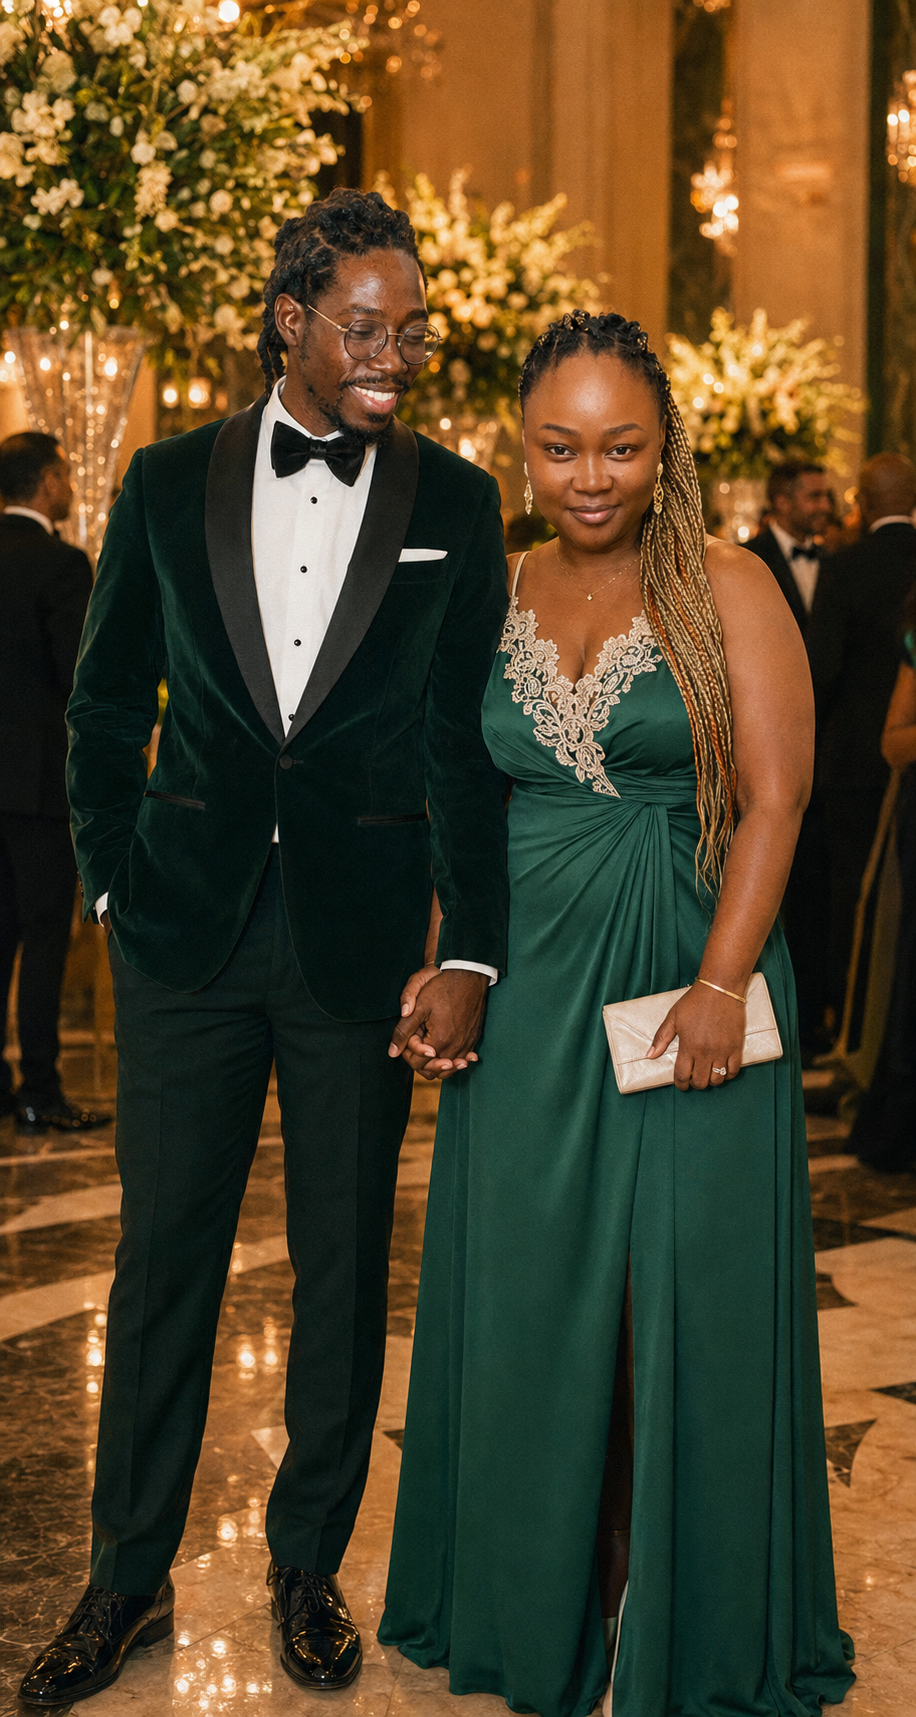
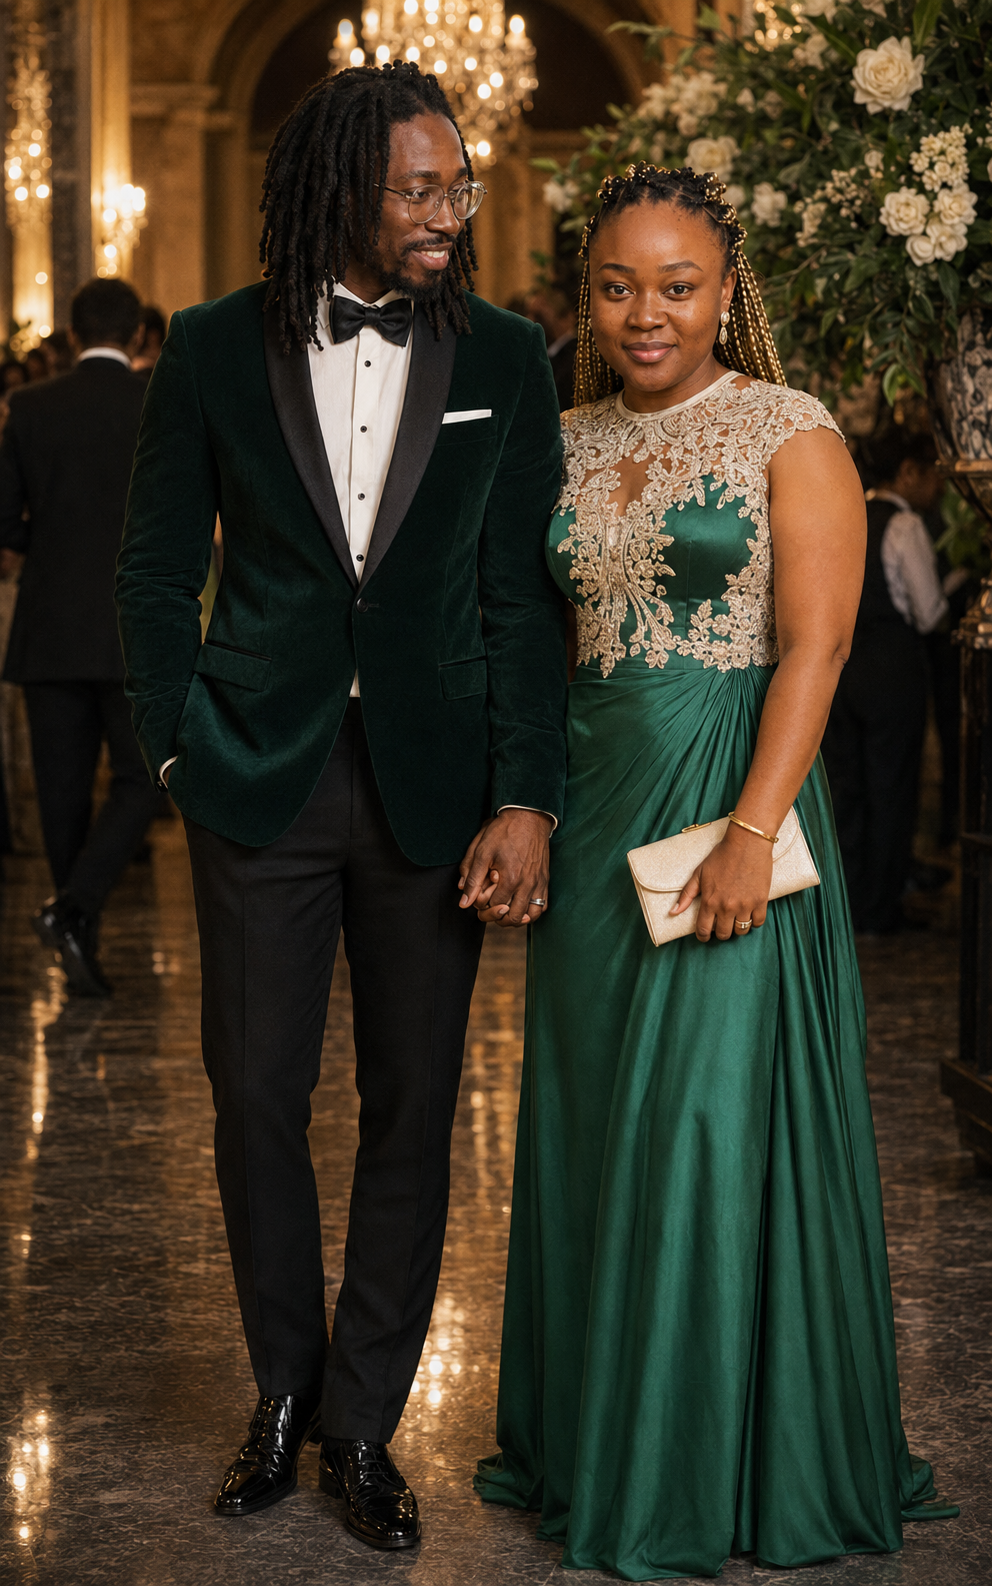
improvements

diff --git a/index.html b/index.html
@@ -60,6 +60,72 @@
             object-fit: cover;
             object-position: top;
         }
+        /* Particules dorées flottantes */
+        #gold-particles {
+            position: fixed;
+            inset: 0;
+            overflow: hidden;
+            pointer-events: none;
+            z-index: 40;
+        }
+        .gold-particle {
+            position: absolute;
+            bottom: -10px;
+            border-radius: 50%;
+            background: radial-gradient(circle, #E3B778 0%, rgba(227,183,120,0.4) 40%, transparent 70%);
+            box-shadow: 0 0 6px 1px rgba(227,183,120,0.35);
+            opacity: 0;
+            animation: float-up linear infinite;
+        }
+        @keyframes float-up {
+            0% {
+                transform: translateY(0) translateX(0) scale(1);
+                opacity: 0;
+            }
+            10% {
+                opacity: 0.9;
+            }
+            90% {
+                opacity: 0.6;
+            }
+            100% {
+                transform: translateY(-110vh) translateX(var(--drift, 30px)) scale(0.6);
+                opacity: 0;
+            }
+        }
+        /* Fleurs flottantes */
+        #flowers {
+            position: fixed;
+            inset: 0;
+            overflow: hidden;
+            pointer-events: none;
+            z-index: 40;
+        }
+        .flower {
+            position: absolute;
+            bottom: -40px;
+            font-family: serif;
+            color: rgba(227, 183, 120, 0.55);
+            text-shadow: 0 0 10px rgba(227, 183, 120, 0.35);
+            opacity: 0;
+            animation: flower-rise linear infinite;
+        }
+        @keyframes flower-rise {
+            0% {
+                transform: translateY(0) rotate(0deg) scale(0.8);
+                opacity: 0;
+            }
+            15% {
+                opacity: 0.4;
+            }
+            85% {
+                opacity: 0.3;
+            }
+            100% {
+                transform: translateY(-115vh) rotate(var(--spin, 30deg)) scale(1.15);
+                opacity: 0;
+            }
+        }
     </style>
 </head>
 <body class="bg-bantou-ivory text-bantou-dark selection:bg-bantou-khaki selection:text-white">
@@ -97,8 +163,8 @@
 
     <!-- Section Hero -->
     <section id="hero" class="relative min-h-screen flex items-center justify-center bg-bantou-dark text-white overflow-hidden pt-20">
-        <div class="absolute inset-0 z-0 opacity-30 bg-cover bg-top" style="background-image: url('https://images.unsplash.com/photo-1519741497674-611481863552?auto=format&fit=crop&w=1920&q=80')"></div>
-        <div class="absolute inset-0 bg-gradient-to-t from-bantou-dark via-bantou-dark/60 to-transparent z-0"></div>
+        <div class="absolute inset-0 z-0 opacity-60 bg-cover bg-top" style="background-image: url('assets/hero-bg.jpeg')"></div>
+        <div class="absolute inset-0 bg-gradient-to-t from-bantou-dark via-bantou-dark/50 to-bantou-dark/40 z-0"></div>
 
         <div class="relative z-10 text-center px-6 max-w-4xl mx-auto" data-aos="fade-up" data-aos-duration="1200">
             <span class="inline-block uppercase tracking-[0.3em] text-xs md:text-sm text-[#E3B778] mb-4 font-semibold">Mariage Civil</span>
@@ -196,7 +262,7 @@
     </section>
 
     <!-- Section Notre Histoire -->
-    <section id="histoire" class="py-24 bg-white px-6">
+    <section id="histoire" class="py-24 px-6" style="background-image: linear-gradient(rgba(255,255,255,0.50), rgba(255,255,255,0.50)), url('assets/motif-bg.jpeg'); background-size: cover; background-position: top;">
         <div class="max-w-5xl mx-auto">
             <div class="text-center max-w-2xl mx-auto mb-16" data-aos="fade-up">
                 <span class="text-bantou-brown uppercase tracking-[0.2em] text-xs font-bold">Parcours de vie</span>
@@ -277,40 +343,43 @@
         </div>
 
         <!-- Grille de 7 images (1 en 16:9 + 6 en 4:5) -->
+    <!-- 
         <div class="grid grid-cols-1 md:grid-cols-3 gap-6" data-aos="fade-up">
-            <!-- 1. 4:5 -->
+           
             <div class="rounded-2xl overflow-hidden shadow-lg h-[300px] md:h-[350px]">
                 <img src="assets/exemple01.jpeg" alt="Tradition 1" class="w-full h-full object-cover hover:scale-105 transition duration-500">
             </div>
-            <!-- 2. 4:5 -->
+            
             <div class="rounded-2xl overflow-hidden shadow-lg h-[300px] md:h-[350px]">
                 <img src="assets/exemple02.jpeg" alt="Tradition 2" class="w-full h-full object-cover hover:scale-105 transition duration-500">
             </div>
-            <!-- 3. 4:5 -->
+            
             <div class="rounded-2xl overflow-hidden shadow-lg h-[300px] md:h-[350px]">
                 <img src="assets/exemple03.jpeg" alt="Tradition 3" class="w-full h-full object-cover hover:scale-105 transition duration-500">
             </div>
-            <!-- 4. 4:5 -->
+            
             <div class="rounded-2xl overflow-hidden shadow-lg h-[350px]">
                 <img src="assets/exemple04.jpeg" alt="Tradition 4" class="w-full h-full object-cover hover:scale-105 transition duration-500">
             </div>
-            <!-- 5. 4:5 -->
+            
             <div class="rounded-2xl overflow-hidden shadow-lg h-[350px]">
                 <img src="assets/exemple05.jpeg" alt="Tradition 5" class="w-full h-full object-cover hover:scale-105 transition duration-500">
             </div>
-            <!-- 6. 4:5 -->
+            
             <div class="rounded-2xl overflow-hidden shadow-lg h-[350px]">
                 <img src="assets/exemple06.jpeg" alt="Tradition 6" class="w-full h-full object-cover hover:scale-105 transition duration-500">
             </div>
-            <!-- 7. 16:9 -->
+            
             <div class="md:col-span-3 rounded-2xl overflow-hidden shadow-lg h-[250px]">
                 <img src="assets/exemple07.jpeg" alt="Tradition 7" class="w-full h-full object-cover hover:scale-105 transition duration-500">
             </div>
+    -->
         </div>
+
     </section>
 
     <!-- Section Programme -->
-    <section id="programme" class="py-24 bg-white px-6">
+    <section id="programme" class="py-24 px-6" style="background-image: linear-gradient(rgba(255,255,255,0.50), rgba(255,255,255,0.50)), url('assets/motif-bg.jpeg'); background-size: cover; background-position: top;">
         <div class="max-w-5xl mx-auto">
             <div class="text-center max-w-2xl mx-auto mb-16" data-aos="fade-up">
                 <span class="text-bantou-brown uppercase tracking-[0.2em] text-xs font-bold">Déroulement du Jour J</span>
@@ -430,7 +499,7 @@
     </section>
 
     <!-- Section Réservation (RSVP) -->
-    <section id="reservation" class="py-24 bg-white px-6 relative">
+    <section id="reservation" class="py-24 px-6 relative" style="background-image: linear-gradient(rgba(255,255,255,0.50), rgba(255,255,255,0.50)), url('assets/motif-bg.jpeg'); background-size: cover; background-position: top;">
         <div class="max-w-2xl mx-auto bg-bantou-ivory rounded-3xl p-8 md:p-12 shadow-xl border border-gray-200" data-aos="fade-up">
             <div class="text-center mb-10">
                 <span class="text-bantou-brown uppercase tracking-[0.2em] text-xs font-bold">Confirmation de présence</span>
@@ -487,6 +556,12 @@
         </div>
     </footer>
 
+    <!-- Effet de particules dorées sur toute la page -->
+    <div id="gold-particles" aria-hidden="true"></div>
+
+    <!-- Fleurs flottantes -->
+    <div id="flowers" aria-hidden="true"></div>
+
     <!-- Bouton Flottant Musique d'ambiance -->
     <div class="fixed bottom-6 right-6 z-50">
         <button id="music-btn" onclick="toggleMusic()" class="bg-bantou-brown text-white w-14 h-14 rounded-full shadow-2xl flex items-center justify-center hover:scale-110 transition duration-300 relative group">
@@ -515,7 +590,7 @@
             <div class="bg-bantou-ivory p-5 rounded-2xl mb-6 space-y-3 text-sm text-bantou-dark border border-gray-200">
                 <div class="flex justify-between border-b border-gray-200 pb-2">
                     <span class="font-semibold">MoMo :</span>
-                    <span class="font-mono text-bantou-brown font-bold">82492337</span>
+                    <span class="font-mono text-bantou-brown font-bold">682492337</span>
                 </div>
                 <div class="flex justify-between border-b border-gray-200 pb-2">
                     <span class="font-semibold">Orange Money :</span>
@@ -652,6 +727,45 @@
         function closeGiftModal() {
             document.getElementById('gift-modal').classList.add('hidden');
         }
+
+        // Particules dorées
+        (function () {
+            const container = document.getElementById('gold-particles');
+            if (!container) return;
+            const count = 40;
+            for (let i = 0; i < count; i++) {
+                const p = document.createElement('span');
+                p.className = 'gold-particle';
+                const size = Math.random() * 8 + 3;
+                p.style.width = size + 'px';
+                p.style.height = size + 'px';
+                p.style.left = Math.random() * 100 + '%';
+                p.style.animationDuration = (Math.random() * 12 + 8) + 's';
+                p.style.animationDelay = (Math.random() * 15) + 's';
+                p.style.setProperty('--drift', (Math.random() * 80 - 40) + 'px');
+                container.appendChild(p);
+            }
+        })();
+
+        // Fleurs flottantes (discret, non saturé)
+        (function () {
+            const container = document.getElementById('flowers');
+            if (!container) return;
+            const glyphs = ['✿', '❀', '✾'];
+            const count = 10;
+            for (let i = 0; i < count; i++) {
+                const f = document.createElement('span');
+                f.className = 'flower';
+                f.textContent = glyphs[Math.floor(Math.random() * glyphs.length)];
+                const size = Math.random() * 22 + 12;
+                f.style.fontSize = size + 'px';
+                f.style.left = Math.random() * 100 + '%';
+                f.style.animationDuration = (Math.random() * 20 + 18) + 's';
+                f.style.animationDelay = (Math.random() * 25) + 's';
+                f.style.setProperty('--spin', (Math.random() * 60 - 30) + 'deg');
+                container.appendChild(f);
+            }
+        })();
 
         // RSVP Form Handling
         function handleRSVP(event) {
